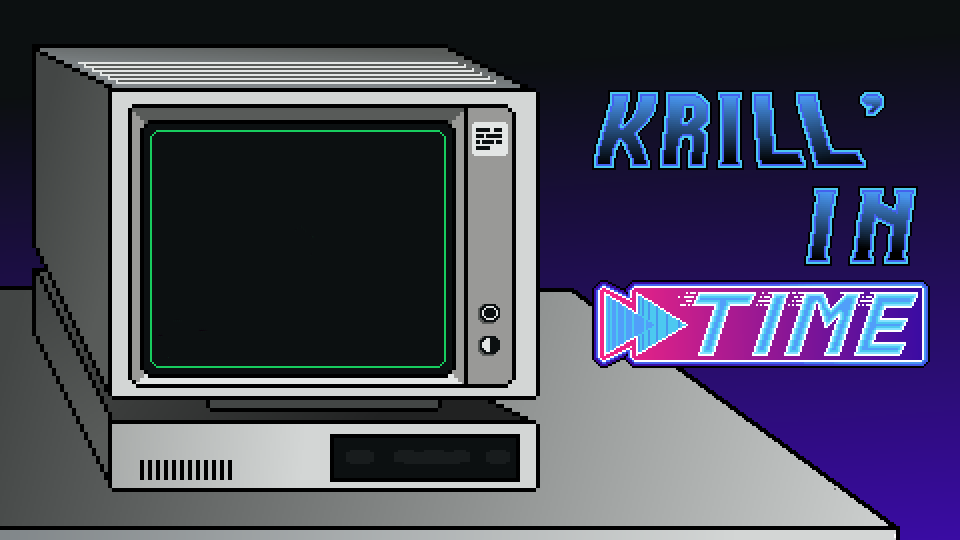
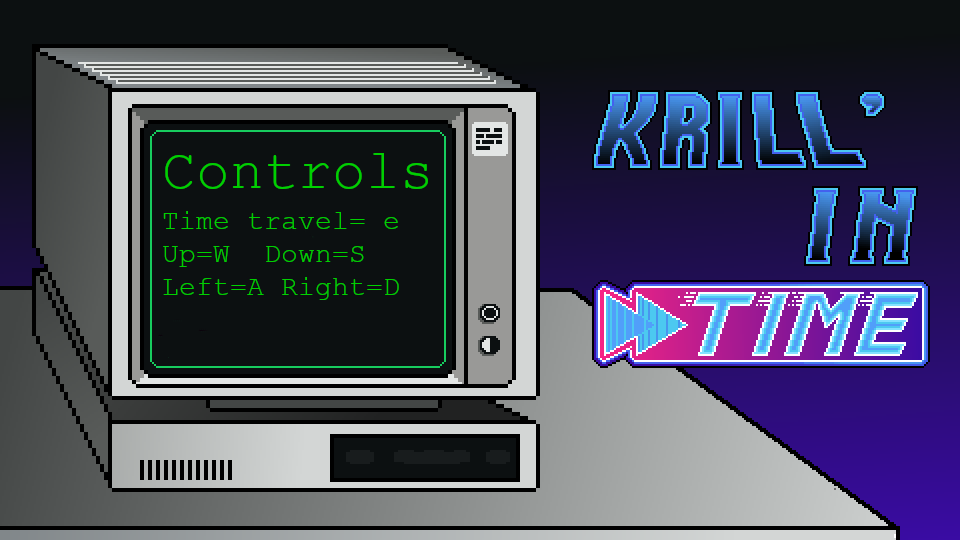
Added new screens

Changed region(s): [[0.1562, 0.3852, 0.375, 0.563], [0.1562, 0.2963, 0.4688, 0.3556], [0.25, 0.5333, 0.2812, 0.563]]

diff --git a/StoryScreen/sketch.js b/StoryScreen/sketch.js
@@ -10,7 +10,7 @@ function preload() {
     soundFormats("mp3");
     mySound = loadSound('Krill (1).mp3');
     // Load the background image
-    backgroundImage = loadImage('StoryScreen.png');
+    backgroundImage = loadImage('./StoryScreen.png');
     // Load the button image
     buttonImage = loadImage('button.png'); // Replace 'button.png' with the path to your PNG button image
 }

diff --git a/StoryScreen/style.css b/StoryScreen/style.css
@@ -5,7 +5,7 @@ html, body {
     align-items: center;
     height: 100vh;
     image-rendering: pixelated;
-    background-image: url('StoryScreeb.png');
+    background-image: url('StoryScreen.png');
     background-repeat: no-repeat;
     background-size:cover;
 }
